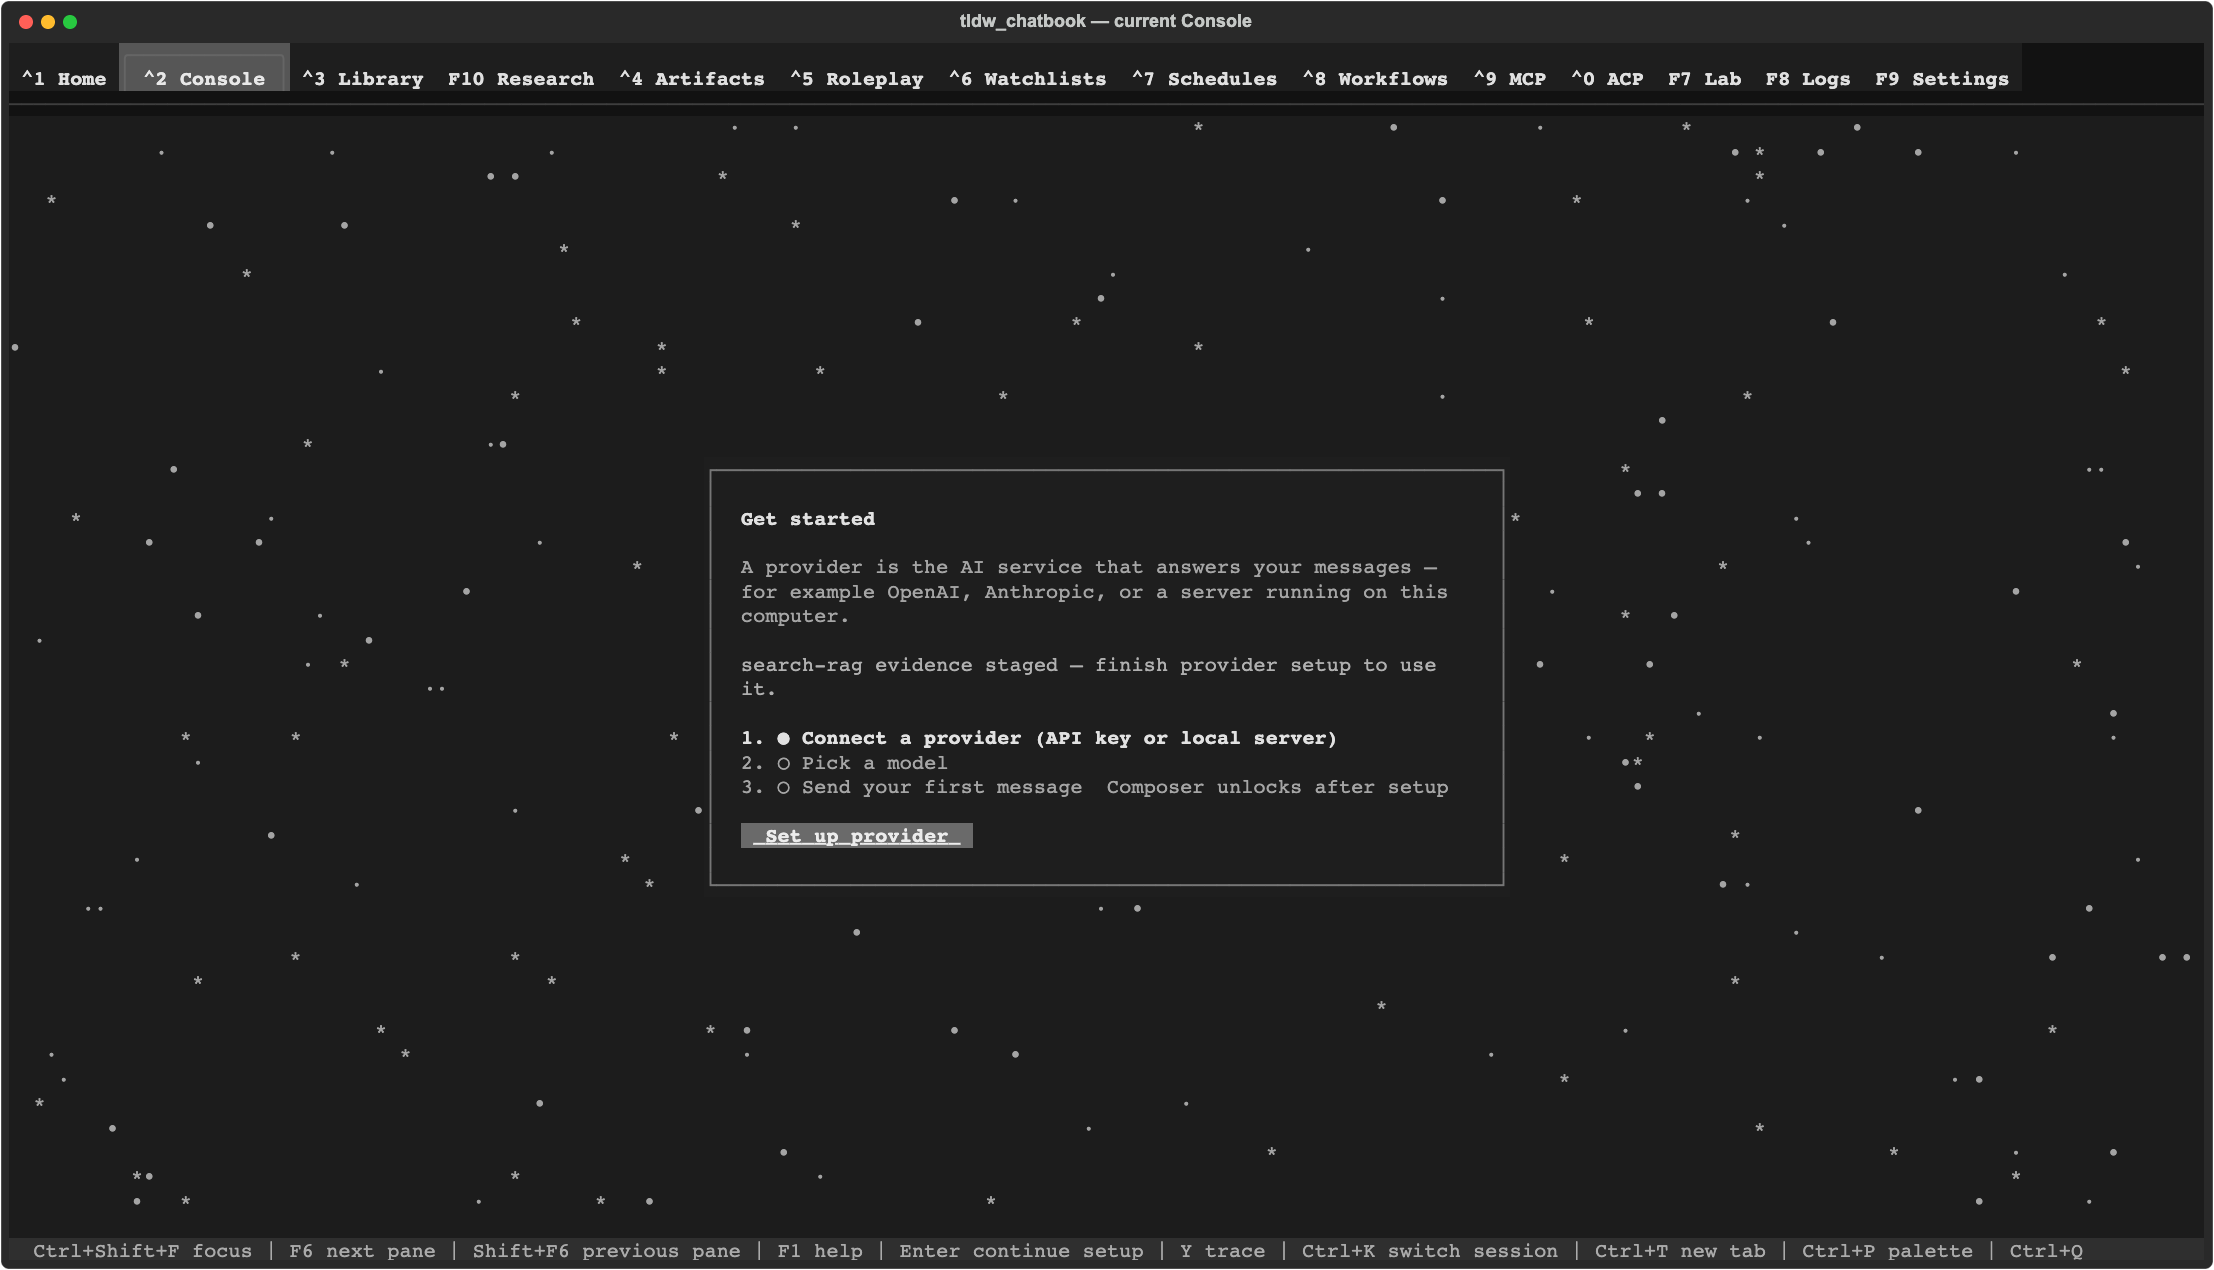
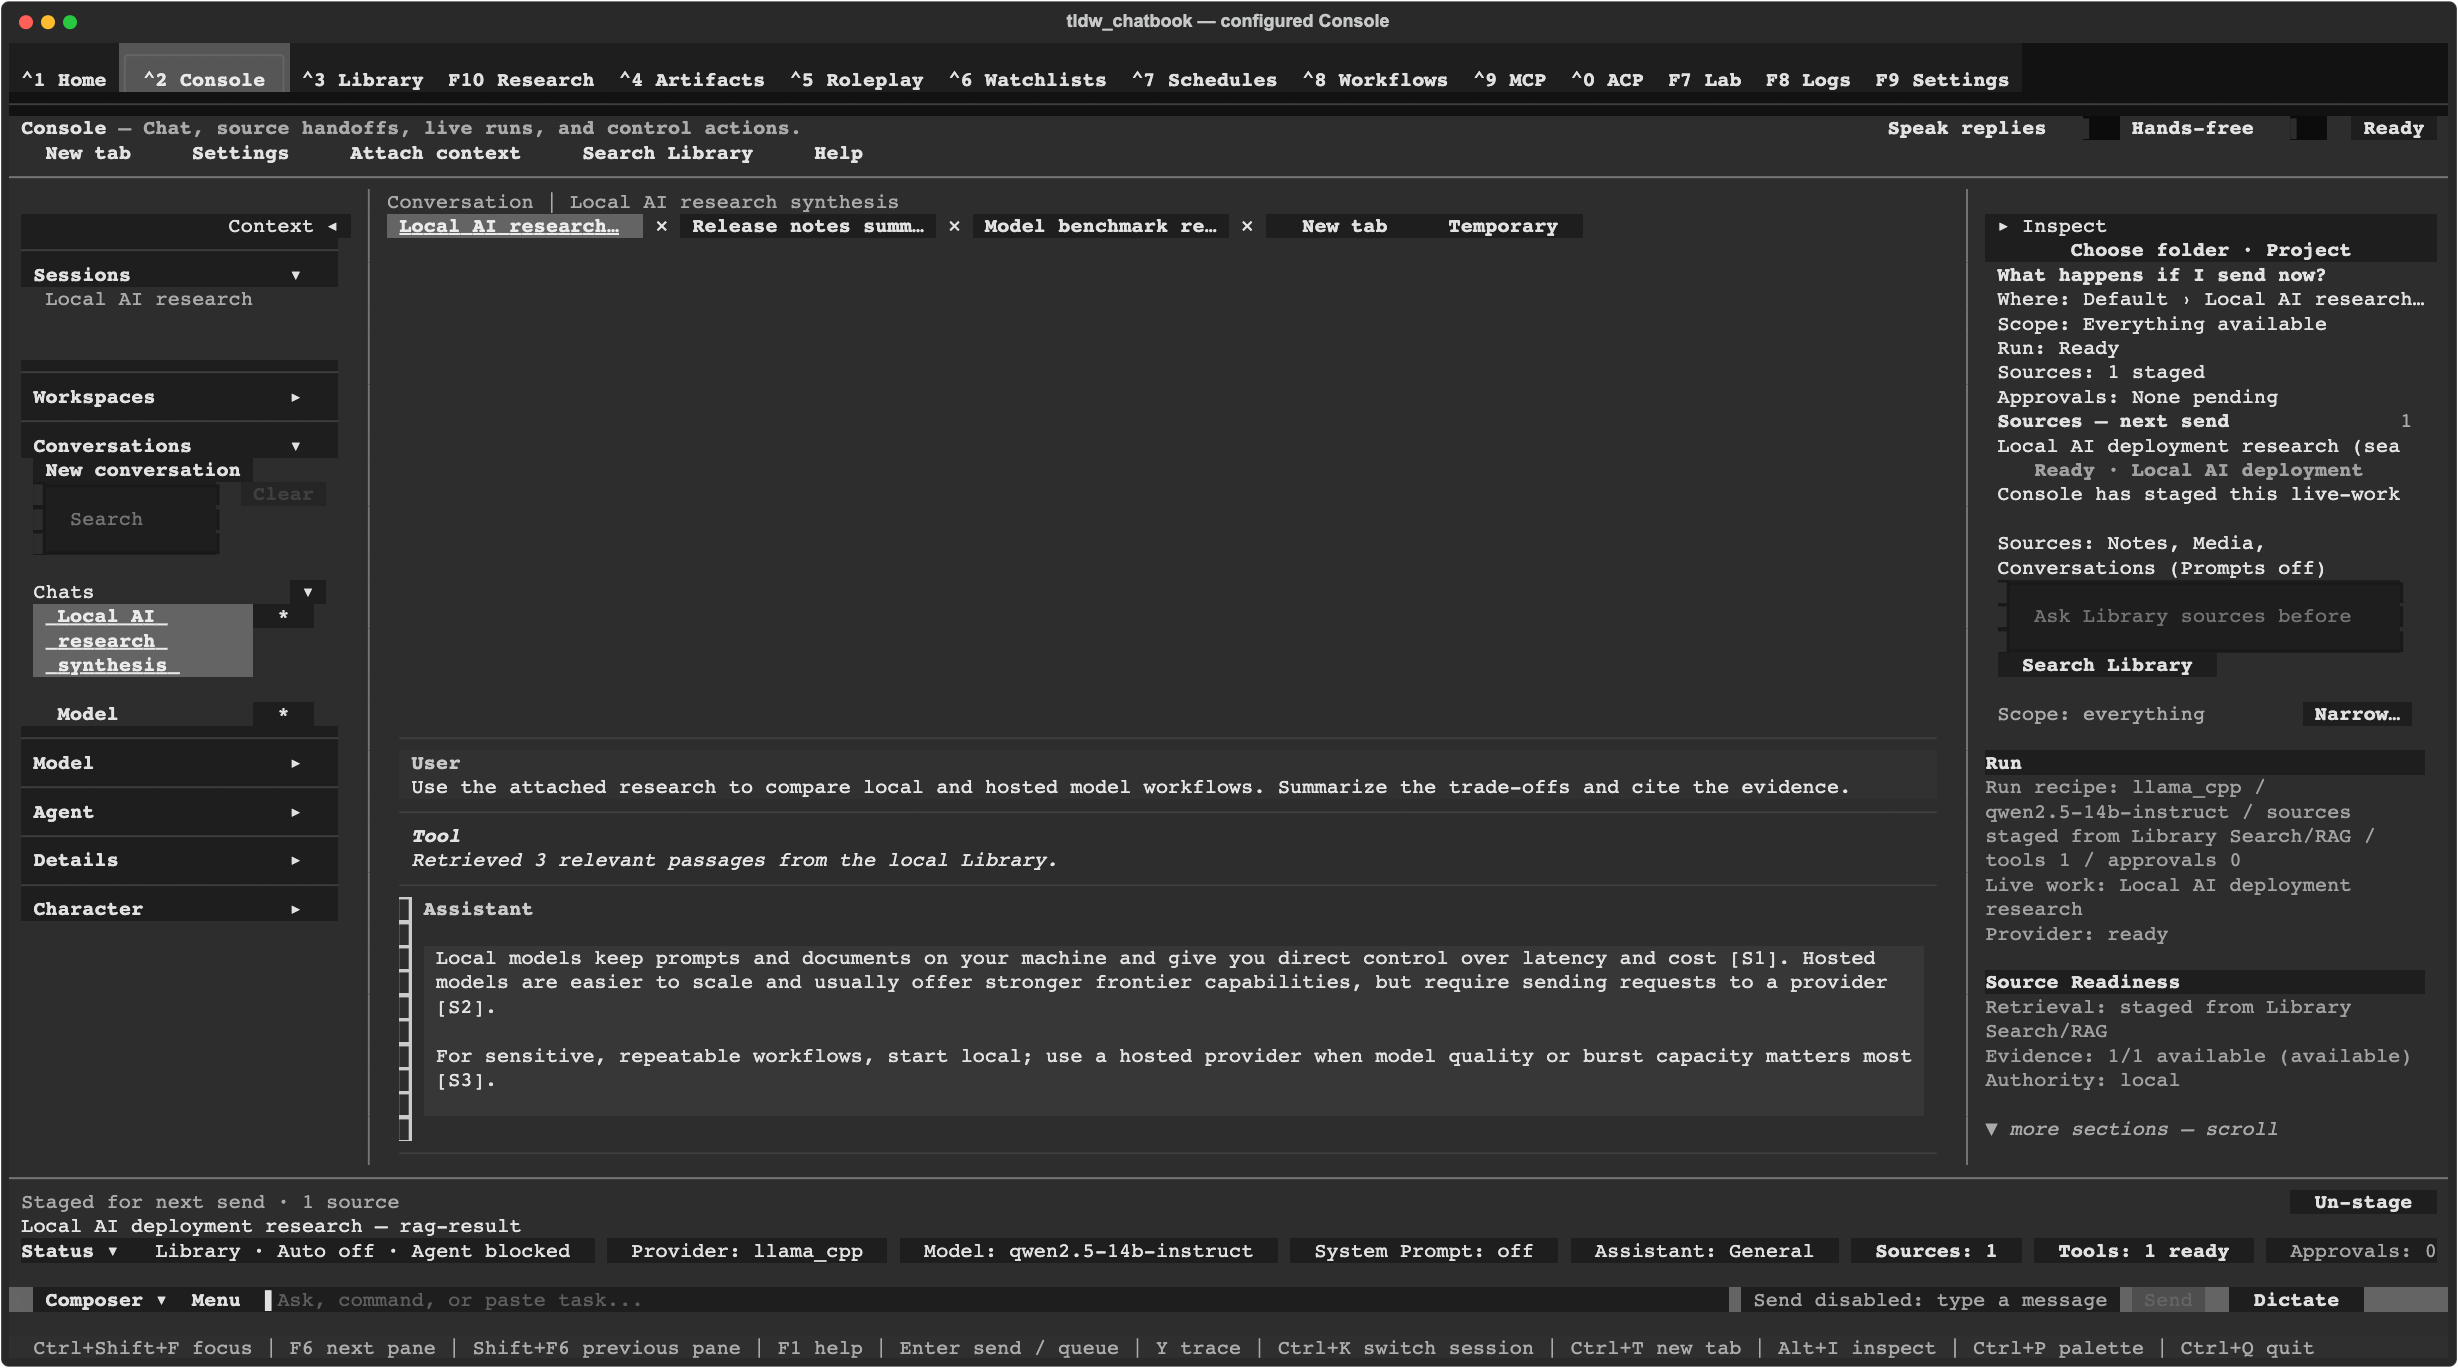
docs: show configured Console in README

diff --git a/backlog/tasks/task-2803.2 - Replace-README-onboarding-image-with-configured-Console-showcase.md b/backlog/tasks/task-2803.2 - Replace-README-onboarding-image-with-configured-Console-showcase.md
@@ -1,0 +1,48 @@
+---
+id: TASK-2803.2
+title: Replace README onboarding image with configured Console showcase
+status: Done
+assignee:
+  - '@codex'
+created_date: '2026-08-30 22:20'
+updated_date: '2026-08-30 22:30'
+labels:
+  - docs
+  - readme
+  - qa
+dependencies: []
+parent_task_id: TASK-2803
+priority: high
+---
+
+## Description
+
+<!-- SECTION:DESCRIPTION:BEGIN -->
+Replace the README landing image with a current, configured Console capture that visibly demonstrates the product's core interaction and evidence workflow rather than onboarding.
+<!-- SECTION:DESCRIPTION:END -->
+
+## Acceptance Criteria
+<!-- AC:BEGIN -->
+- [x] #1 Screenshot shows the current operational Console with no onboarding or setup modal.
+- [x] #2 Screenshot visibly demonstrates a synthetic conversation plus sources and current workbench controls.
+- [x] #3 Screenshot is captured from the real Textual compositor with no sensitive data.
+- [x] #4 README renders the replacement correctly and the diff contains no temporary capture artifacts.
+<!-- AC:END -->
+
+## Implementation Plan
+
+<!-- SECTION:PLAN:BEGIN -->
+1. Identify an existing proven configured-Console harness and populate it with synthetic conversation/source/tool state.
+2. Export the real mounted Textual compositor at a readable desktop size and rasterize without altering UI content.
+3. Visually compare the capture with current mounted controls, replace the README asset, and verify relevant Console tests, image/link integrity, and scoped diff.
+
+ADR required: no
+ADR path: N/A
+Reason: documentation asset correction only; application behavior and architecture do not change.
+<!-- SECTION:PLAN:END -->
+
+## Implementation Notes
+
+<!-- SECTION:NOTES:BEGIN -->
+Replaced the onboarding image with a 2458×1368 capture exported from the mounted Textual Console. The synthetic scene shows a local-model research conversation, Library retrieval activity, a cited answer, staged evidence, sessions, provider/model controls, and the inspector without exposing user data. Updated the README alt text and removed temporary capture artifacts. Verified the capture harness before removal, visually inspected the PNG, passed two targeted Console tests, confirmed image dimensions and link integrity, and ran git diff --check. ADR required: no; documentation-only correction.
+<!-- SECTION:NOTES:END -->

diff --git a/README.md b/README.md
@@ -10,7 +10,7 @@ agent workflows. It connects to hosted model APIs or a local model server while
 keeping conversations, notes, prompts, and other core application data on your
 machine by default.
 
-![Current first-run Console setup in tldw_chatbook](Docs/static/tldw-chatbook-console.png)
+![tldw_chatbook Console showing a grounded conversation with sources and tool activity](Docs/static/tldw-chatbook-console.png)
 
 > **New here?** Follow the [five-minute quick start](#quick-start), then use
 > [Your first conversation](#your-first-conversation). The
